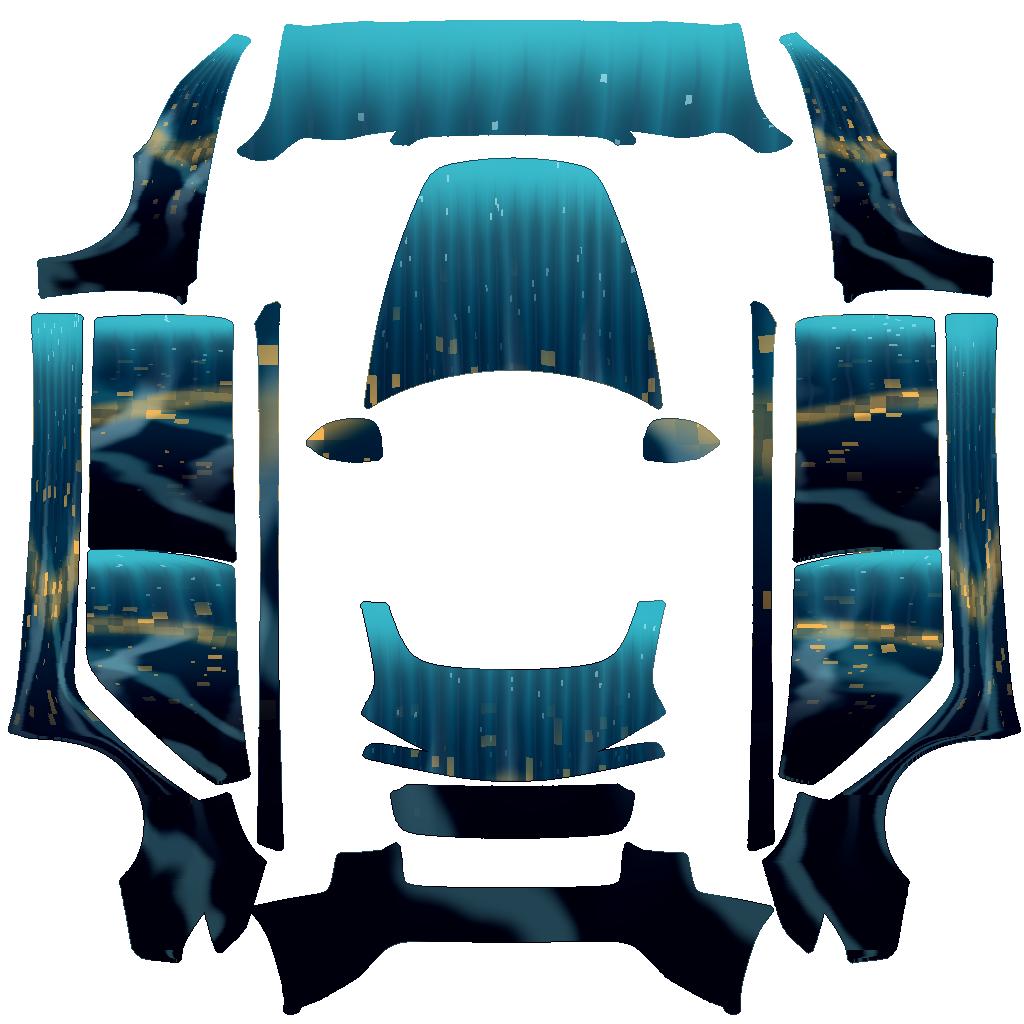
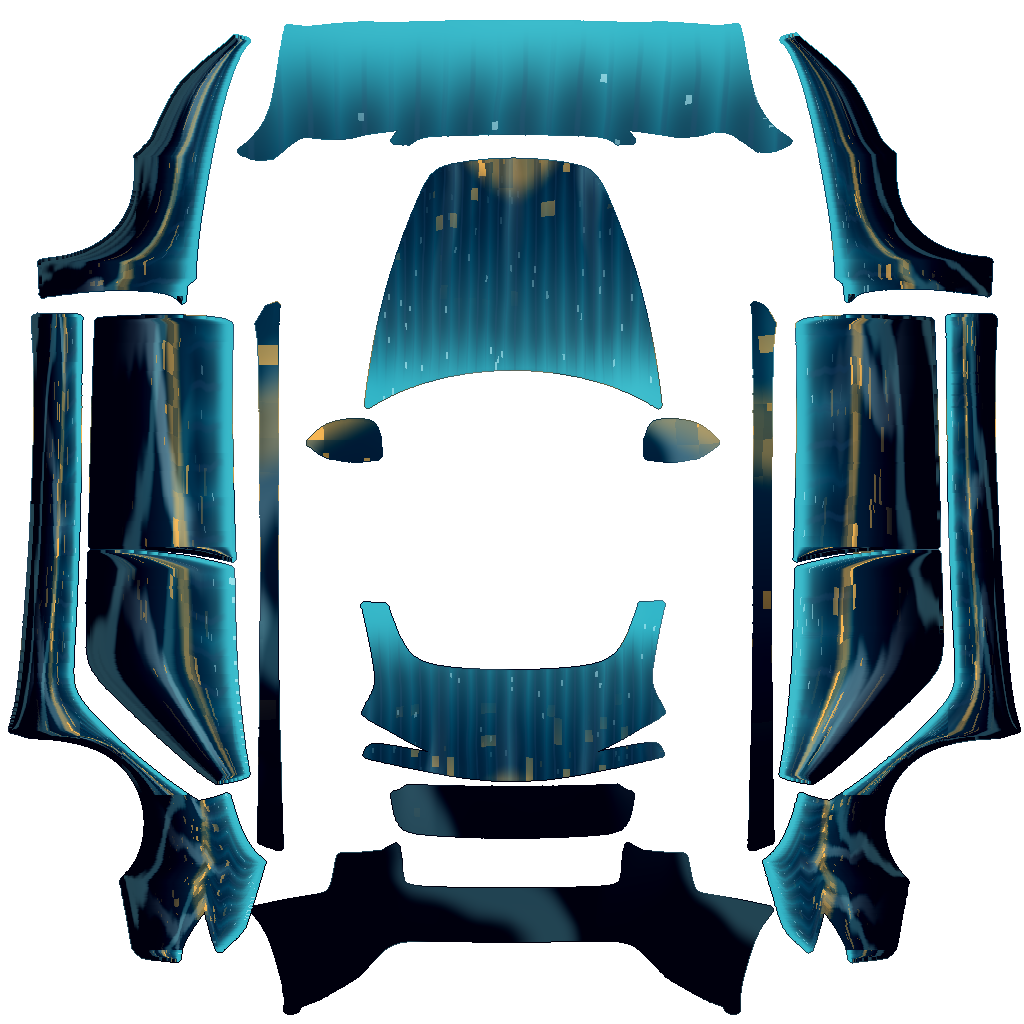
Remaster chi-lake continuous side flow for 2026-09-06
Cybertruck unchanged. Model 3/Y/S/X family rebuilt with shared vehicle-space UVs so fender→doors→quarter stream together (no door-only rotate).

Changed region(s): [[0.0, 0.0312, 0.2812, 0.9375], [0.75, 0.0312, 1.0, 0.9375], [0.3438, 0.1562, 0.6562, 0.4062]]

diff --git a/skins/2026-09-06/README.md b/skins/2026-09-06/README.md
@@ -10,14 +10,18 @@ CITY series — Chicago (next after NYC taxi-steam and LA la-dusk). One invented
 | Folder | Pixels | File size |
 |---|---|---|
 | `cybertruck` | 1024×768 | 272.5 KB |
-| `model3-2024-base` | 1024×1024 | 453.8 KB |
-| `model3-2024-performance` | 1024×1024 | 452.1 KB |
-| `model3` | 1024×1024 | 423.3 KB |
-| `models-2021` | 1024×1024 | 374.5 KB |
-| `models-2025-plaid` | 1024×1024 | 367.5 KB |
-| `modelx-2021` | 1024×1024 | 298.8 KB |
-| `modely-2025-base` | 1024×1024 | 327.9 KB |
-| `modely-2025-performance` | 1024×1024 | 370.1 KB |
-| `modely-2025-premium` | 1024×1024 | 363.9 KB |
-| `modely-l` | 1024×1024 | 401.8 KB |
-| `modely` | 1024×1024 | 430.8 KB |
+| `model3-2024-base` | 1024×1024 | 571.3 KB |
+| `model3-2024-performance` | 1024×1024 | 570.8 KB |
+| `model3` | 1024×1024 | 531.5 KB |
+| `models-2021` | 1024×1024 | 444.0 KB |
+| `models-2025-plaid` | 1024×1024 | 436.9 KB |
+| `modelx-2021` | 1024×1024 | 365.0 KB |
+| `modely-2025-base` | 1024×1024 | 423.6 KB |
+| `modely-2025-performance` | 1024×1024 | 478.3 KB |
+| `modely-2025-premium` | 1024×1024 | 480.4 KB |
+| `modely-l` | 1024×1024 | 536.6 KB |
+| `modely` | 1024×1024 | 550.3 KB |
+
+## Update
+
+Continuous UV remaster (2026-09-06 evening CT): Cybertruck unchanged; Model 3/Y/S/X family rebuilt for fender→door→quarter flow (no door-only rotate).

diff --git a/skins/2026-09-06/model3-2024-performance/README.md b/skins/2026-09-06/model3-2024-performance/README.md
@@ -4,7 +4,7 @@
 - **Brief:** Chicago lakefront night: Michigan teal and midnight navy cascading from the roof, with amber L-train window sparks and soft skyline reflections drifting downhill toward hood, rockers, and tail — regenerated impression, no logos.
 - **Official folder:** `model3-2024-performance`
 - **Pixel size:** 1024×1024
-- **File size:** 452.1 KB
+- **File size:** 570.8 KB
 - **File:** `chi-lake.png`
 
 ## Tesla upload steps

diff --git a/skins/2026-09-06/modely-2025-performance/README.md b/skins/2026-09-06/modely-2025-performance/README.md
@@ -4,7 +4,7 @@
 - **Brief:** Chicago lakefront night: Michigan teal and midnight navy cascading from the roof, with amber L-train window sparks and soft skyline reflections drifting downhill toward hood, rockers, and tail — regenerated impression, no logos.
 - **Official folder:** `modely-2025-performance`
 - **Pixel size:** 1024×1024
-- **File size:** 370.1 KB
+- **File size:** 478.3 KB
 - **File:** `chi-lake.png`
 
 ## Tesla upload steps

diff --git a/skins/2026-09-06/modely-2025-premium/README.md b/skins/2026-09-06/modely-2025-premium/README.md
@@ -4,7 +4,7 @@
 - **Brief:** Chicago lakefront night: Michigan teal and midnight navy cascading from the roof, with amber L-train window sparks and soft skyline reflections drifting downhill toward hood, rockers, and tail — regenerated impression, no logos.
 - **Official folder:** `modely-2025-premium`
 - **Pixel size:** 1024×1024
-- **File size:** 363.9 KB
+- **File size:** 480.4 KB
 - **File:** `chi-lake.png`
 
 ## Tesla upload steps

diff --git a/skins/2026-09-06/models-2025-plaid/README.md b/skins/2026-09-06/models-2025-plaid/README.md
@@ -4,7 +4,7 @@
 - **Brief:** Chicago lakefront night: Michigan teal and midnight navy cascading from the roof, with amber L-train window sparks and soft skyline reflections drifting downhill toward hood, rockers, and tail — regenerated impression, no logos.
 - **Official folder:** `models-2025-plaid`
 - **Pixel size:** 1024×1024
-- **File size:** 367.5 KB
+- **File size:** 436.9 KB
 - **File:** `chi-lake.png`
 
 ## Tesla upload steps

diff --git a/skins/2026-09-06/model3-2024-base/README.md b/skins/2026-09-06/model3-2024-base/README.md
@@ -4,7 +4,7 @@
 - **Brief:** Chicago lakefront night: Michigan teal and midnight navy cascading from the roof, with amber L-train window sparks and soft skyline reflections drifting downhill toward hood, rockers, and tail — regenerated impression, no logos.
 - **Official folder:** `model3-2024-base`
 - **Pixel size:** 1024×1024
-- **File size:** 453.8 KB
+- **File size:** 571.3 KB
 - **File:** `chi-lake.png`
 
 ## Tesla upload steps

diff --git a/skins/2026-09-06/modely-2025-base/README.md b/skins/2026-09-06/modely-2025-base/README.md
@@ -4,7 +4,7 @@
 - **Brief:** Chicago lakefront night: Michigan teal and midnight navy cascading from the roof, with amber L-train window sparks and soft skyline reflections drifting downhill toward hood, rockers, and tail — regenerated impression, no logos.
 - **Official folder:** `modely-2025-base`
 - **Pixel size:** 1024×1024
-- **File size:** 327.9 KB
+- **File size:** 423.6 KB
 - **File:** `chi-lake.png`
 
 ## Tesla upload steps

diff --git a/skins/2026-09-06/models-2021/README.md b/skins/2026-09-06/models-2021/README.md
@@ -4,7 +4,7 @@
 - **Brief:** Chicago lakefront night: Michigan teal and midnight navy cascading from the roof, with amber L-train window sparks and soft skyline reflections drifting downhill toward hood, rockers, and tail — regenerated impression, no logos.
 - **Official folder:** `models-2021`
 - **Pixel size:** 1024×1024
-- **File size:** 374.5 KB
+- **File size:** 444.0 KB
 - **File:** `chi-lake.png`
 
 ## Tesla upload steps

diff --git a/skins/2026-09-06/modelx-2021/README.md b/skins/2026-09-06/modelx-2021/README.md
@@ -4,7 +4,7 @@
 - **Brief:** Chicago lakefront night: Michigan teal and midnight navy cascading from the roof, with amber L-train window sparks and soft skyline reflections drifting downhill toward hood, rockers, and tail — regenerated impression, no logos.
 - **Official folder:** `modelx-2021`
 - **Pixel size:** 1024×1024
-- **File size:** 298.8 KB
+- **File size:** 365.0 KB
 - **File:** `chi-lake.png`
 
 ## Tesla upload steps

diff --git a/skins/2026-09-06/modely-l/README.md b/skins/2026-09-06/modely-l/README.md
@@ -4,7 +4,7 @@
 - **Brief:** Chicago lakefront night: Michigan teal and midnight navy cascading from the roof, with amber L-train window sparks and soft skyline reflections drifting downhill toward hood, rockers, and tail — regenerated impression, no logos.
 - **Official folder:** `modely-l`
 - **Pixel size:** 1024×1024
-- **File size:** 401.8 KB
+- **File size:** 536.6 KB
 - **File:** `chi-lake.png`
 
 ## Tesla upload steps

diff --git a/skins/2026-09-06/model3/README.md b/skins/2026-09-06/model3/README.md
@@ -4,7 +4,7 @@
 - **Brief:** Chicago lakefront night: Michigan teal and midnight navy cascading from the roof, with amber L-train window sparks and soft skyline reflections drifting downhill toward hood, rockers, and tail — regenerated impression, no logos.
 - **Official folder:** `model3`
 - **Pixel size:** 1024×1024
-- **File size:** 423.3 KB
+- **File size:** 531.5 KB
 - **File:** `chi-lake.png`
 
 ## Tesla upload steps

diff --git a/skins/2026-09-06/modely/README.md b/skins/2026-09-06/modely/README.md
@@ -4,7 +4,7 @@
 - **Brief:** Chicago lakefront night: Michigan teal and midnight navy cascading from the roof, with amber L-train window sparks and soft skyline reflections drifting downhill toward hood, rockers, and tail — regenerated impression, no logos.
 - **Official folder:** `modely`
 - **Pixel size:** 1024×1024
-- **File size:** 430.8 KB
+- **File size:** 550.3 KB
 - **File:** `chi-lake.png`
 
 ## Tesla upload steps
